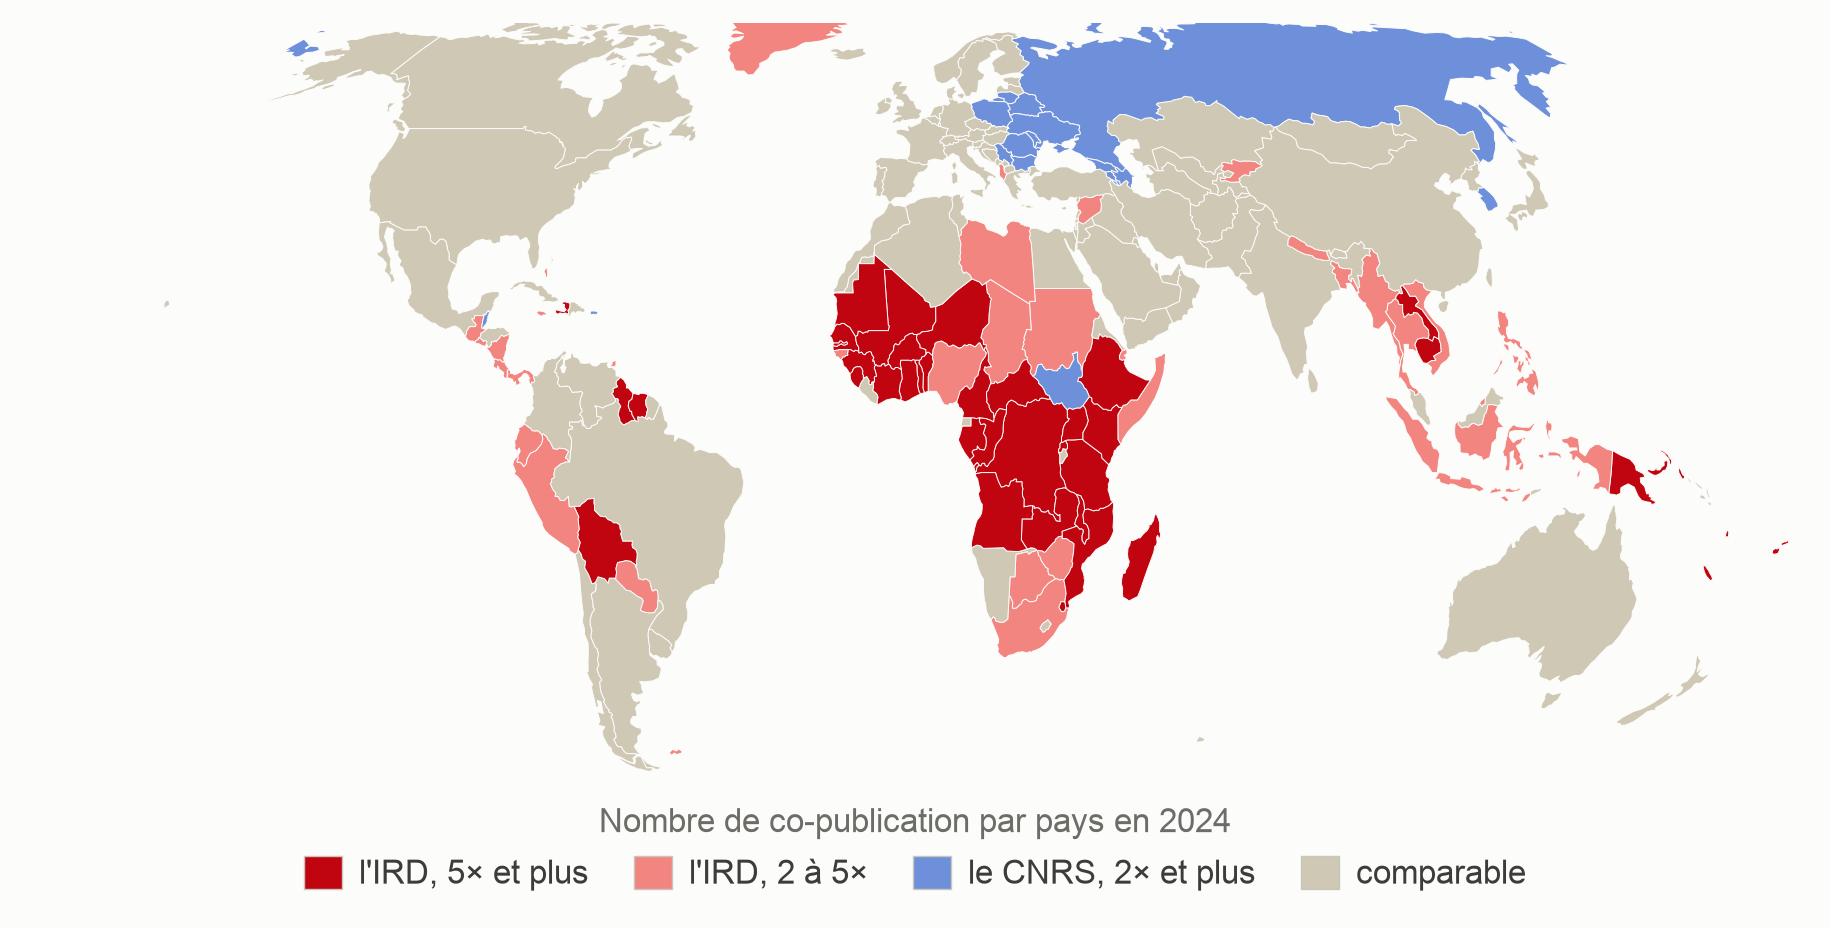
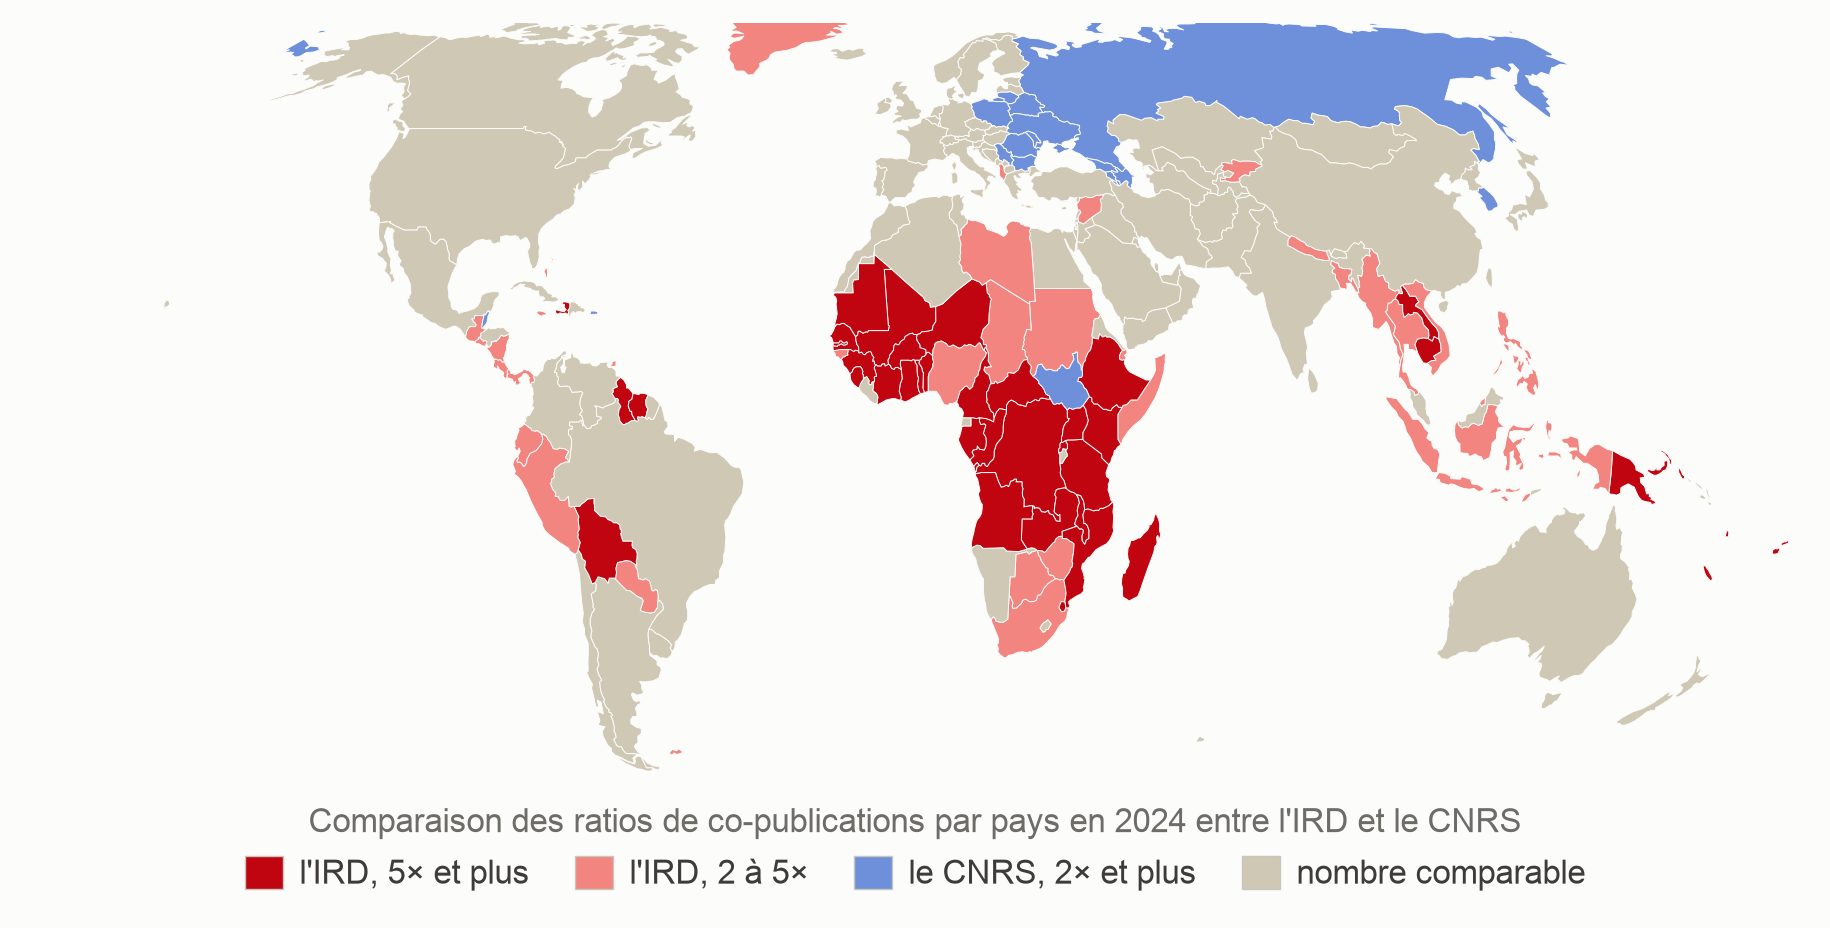
feat: Update figure legends

Changed region(s): [[0.1246, 0.875, 0.8721, 0.9688]]

diff --git a/scripts/make_fig3_euro.py b/scripts/make_fig3_euro.py
@@ -101,16 +101,16 @@ def build(title, deck, stem):
         "États-Unis": (0, -50, "center", "top"),
         "Royaume-Uni": (0, -26, "center", "top"),
         "Allemagne": (0, 28, "center", "bottom"),
-        "Italie": (28, -10, "left", "center"),
-        "Japon": (35, 0, "left", "center"),
-        "Chine": (30, 8, "left", "bottom"),
+        "Italie": (28, -25, "left", "center"),
+        "Japon": (35, 10, "left", "center"),
+        "Chine": (30, 18, "left", "bottom"),
         "Brésil": (0, -30, "center", "top"),
         "Sénégal": (0, 30, "center", "bottom"),
         "Congo": (32, 14, "left", "bottom"),
-        "Tchad": (28, -12, "left", "top"),
-        "Côte d'Ivoire": (-25, 25, "right", "bottom"),
+        "Tchad": (28, 5, "left", "top"),
+        "Côte d'Ivoire": (-5, 25, "right", "bottom"),
         "Burkina Faso": (-35, 0, "right", "center"),
-        "Niger": (-28, -14, "right", "top"),
+        "Niger": (-20, -14, "right", "top"),
         "Mali": (14, -26, "left", "top"),
         "Madagascar": (30, -8, "left", "center"),
     }
@@ -130,7 +130,7 @@ def build(title, deck, stem):
                       arrowprops=leader)
 
     ax_a.axvline(1.0, color=RULE, lw=1.0, ls=(0, (4, 3)), zorder=1)
-    ax_a.text(1.13, 15, "France\n(référence)", ha="center", va="bottom", fontsize=T_NOTE, color=MUTED)
+    ax_a.text(1.2, 7, "France\n(référence)", ha="center", va="bottom", fontsize=T_NOTE, color=MUTED)
 
     ax_a.set_yscale("log")
     ax_a.set_xlim(0.6, XMAX)
@@ -148,10 +148,8 @@ def build(title, deck, stem):
     ax_a.set_xticklabels(["0,75\u202f\u00d7", "1\u202f\u00d7", "1,5\u202f\u00d7",
                           "2\u202f\u00d7", "2,5\u202f\u00d7", "3\u202f\u00d7",
                           "3,5\u202f\u00d7"])
-    ax_a.set_xlabel("La force d'un euro de recherche par pays, par rapport à la France",
-                    fontsize=T_BODY, color=MUTED, labelpad=7)
-    ax_a.set_ylabel("Nombre de chercheurs par million d'habitants\n(échelle logarithmique)",
-                    fontsize=T_BODY, color=MUTED, linespacing=1.4, labelpad=10)
+    ax_a.set_xlabel("Impact d'un euro investi dans le système de recherche par pays, par rapport à la France", fontsize=T_BODY, color=MUTED, labelpad=7)
+    ax_a.set_ylabel("Nombre de chercheurs par million d'habitants\n(échelle logarithmique)", fontsize=T_BODY, color=MUTED, linespacing=1.4, labelpad=10)
     ax_a.tick_params(labelsize=T_BODY, length=0)
     ax_a.tick_params(which="minor", length=0)
     # the minor grid is what makes the log scale legible; it stays fainter than the decades

diff --git a/scripts/make_fig2_anteriorite.py b/scripts/make_fig2_anteriorite.py
@@ -63,7 +63,7 @@ def build(title, deck, stem):
 
     # --- 2015: the year the subject acquired its label
     ax.axvline(2015, color=RULE, lw=1.0, zorder=1)
-    ax.text(2015 + 0.3, 10, "2015 : accord de Paris\net adoption des\nObjectifs de Développement Durable",
+    ax.text(2015 + 0.3, 10, "2015 : accord de Paris et adoption des\nObjectifs de Développement Durable (ODD)",
             ha="left", va="top", fontsize=T_NOTE, color=MUTED, linespacing=1.35)
 
     # --- value points: the start of the series, 2015, and the end.
@@ -93,7 +93,7 @@ def build(title, deck, stem):
     ax.set_xticklabels(["2002", "2006", "2010", "2014", "2018", "2022", "2024"], fontsize=T_BODY)
     ax.set_yticks([0, 2, 4, 6, 8])
     ax.set_yticklabels(["", "2 %", "4 %", "6 %", "8 %"], fontsize=T_BODY)
-    ax.set_ylabel("Part des publications\nconsacrées à l'objectif\n\"Lutte contre le changement climatique\"", fontsize=T_BODY, color=MUTED, linespacing=1.4, labelpad=12)
+    ax.set_ylabel("Part des publications consacrées à l'ODD\n\"Lutte contre le changement climatique\"", fontsize=T_BODY, color=MUTED, linespacing=1.4, labelpad=12)
     ax.yaxis.grid(True, color=GRID, lw=0.9, zorder=0)
     ax.set_axisbelow(True)
     for side in ("top", "right", "left"):

diff --git a/scripts/make_fig1_carte.py b/scripts/make_fig1_carte.py
@@ -139,12 +139,12 @@ def build(title, deck, stem):
         mpatches.Patch(facecolor=CLASSES[0][2], edgecolor=RULE, lw=0.5, label="l'IRD, 5× et plus"),
         mpatches.Patch(facecolor=CLASSES[1][2], edgecolor=RULE, lw=0.5, label="l'IRD, 2 à 5×"),
         mpatches.Patch(facecolor=CLASSES[3][2], edgecolor=RULE, lw=0.5, label="le CNRS, 2× et plus"),
-        mpatches.Patch(facecolor=NEUTRAL, edgecolor=RULE, lw=0.5, label="comparable"),
+        mpatches.Patch(facecolor=NEUTRAL, edgecolor=RULE, lw=0.5, label="nombre comparable"),
     ]
     leg = ax.legend(handles=handles, loc="upper center", bbox_to_anchor=(0.5, 0),
                     ncol=5, frameon=False, handlelength=1.15, handleheight=1.15,
                     columnspacing=1.35, handletextpad=0.5, fontsize=T_NOTE,
-                    title="Nombre de co-publication par pays en 2024")
+                    title="Comparaison des ratios de co-publications par pays en 2024 entre l'IRD et le CNRS")
     leg.get_title().set_fontsize(T_NOTE)
     leg.get_title().set_color(MUTED)
     for text in leg.get_texts():
